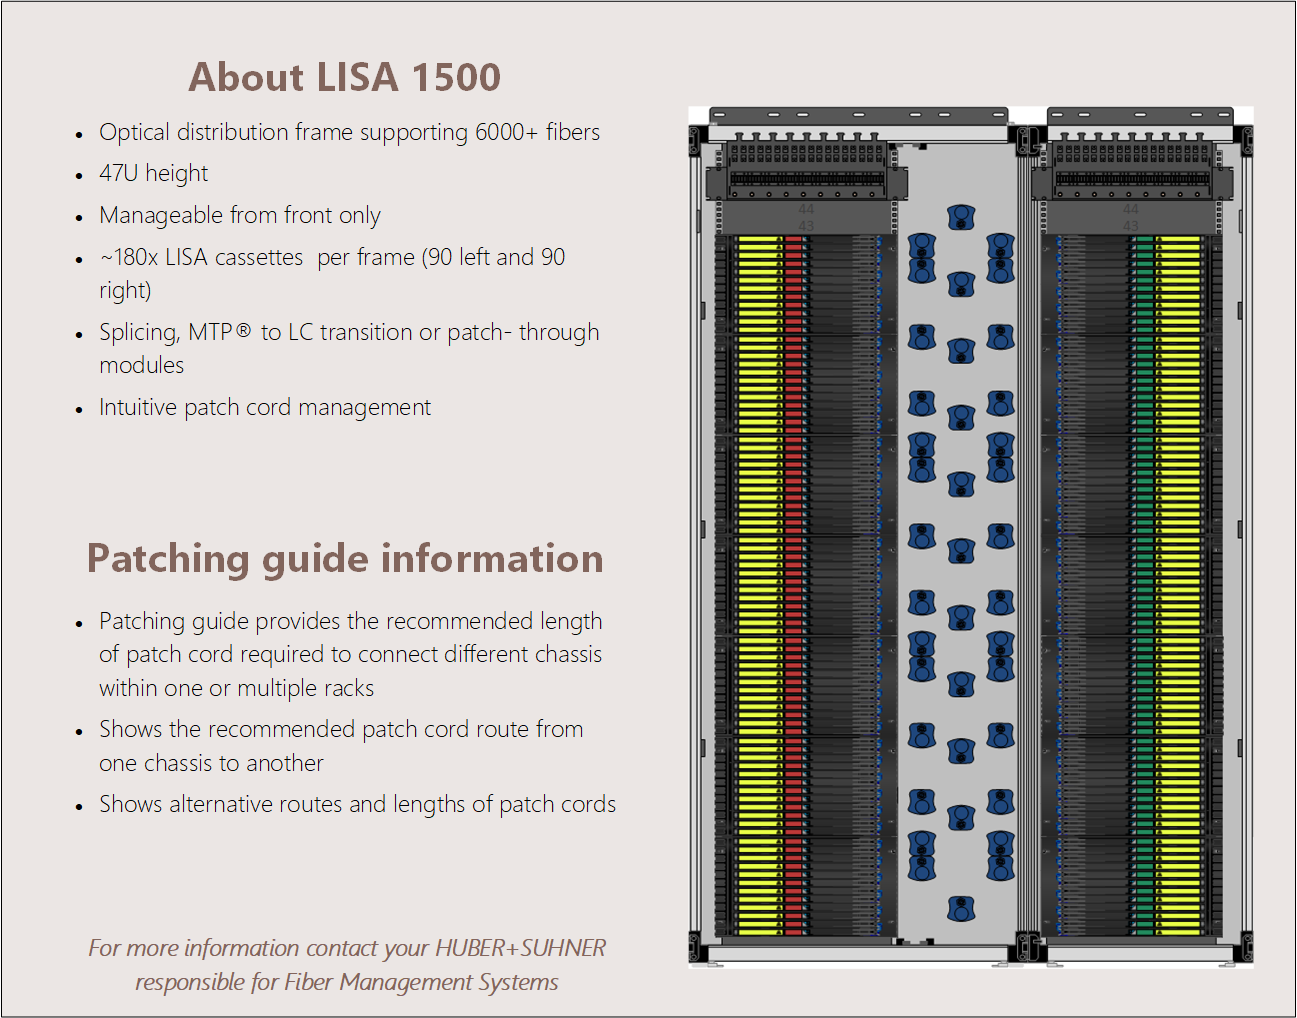
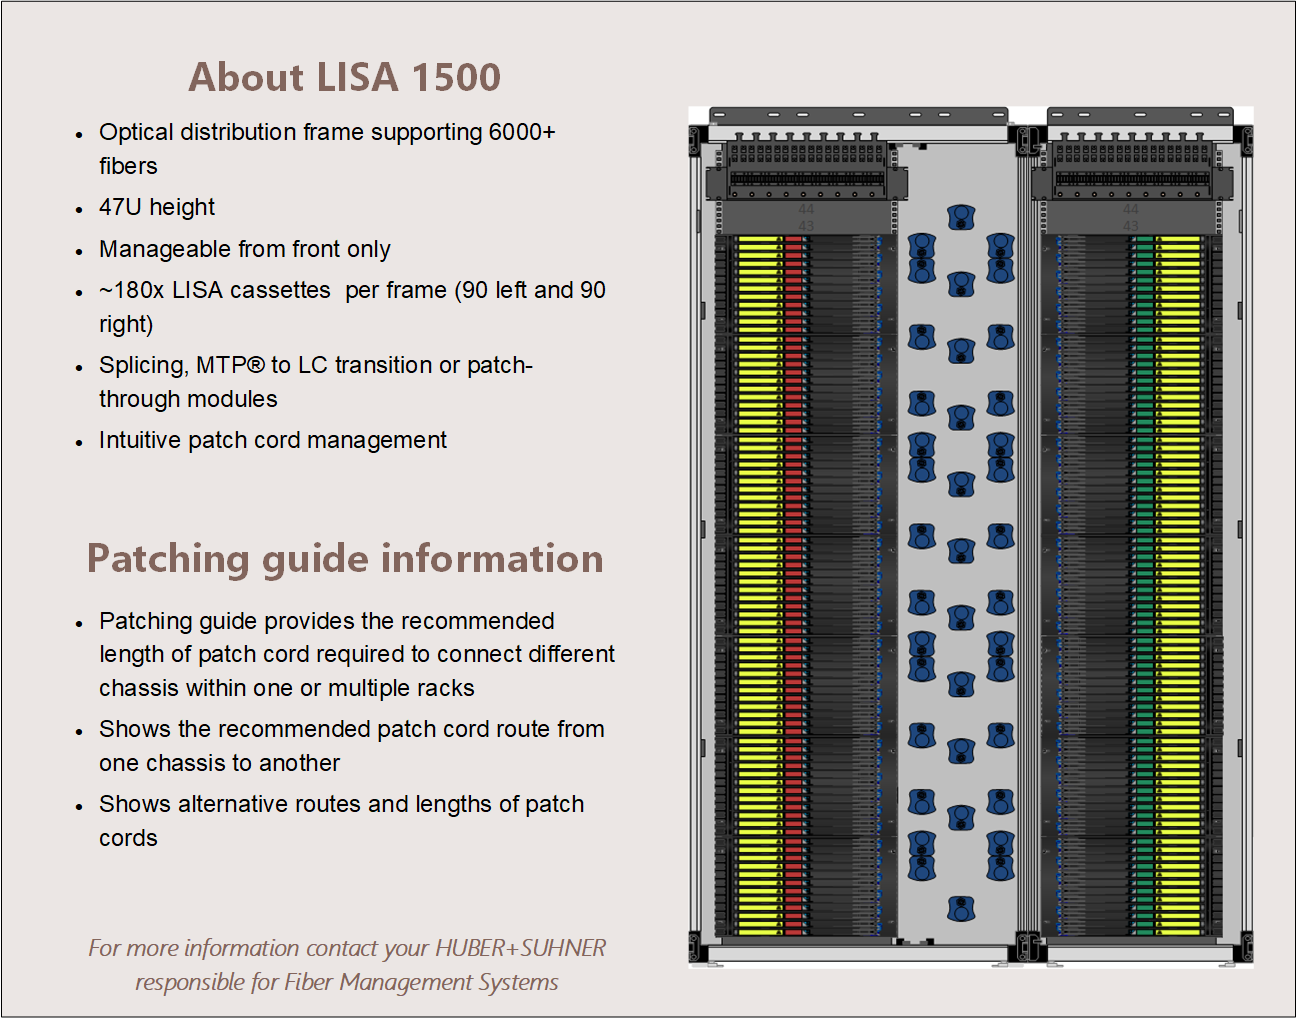
images update (fonts)

Changed region(s): [[0.0617, 0.1218, 0.4626, 0.4568], [0.0617, 0.5786, 0.4626, 0.8527]]

diff --git a/style.css b/style.css
@@ -16,17 +16,7 @@
 			src: url('./fonts/39EC6C_0_0.woff2') format('woff2'),/* Super Modern Browsers */
 				 url('./fonts/39EC6C_0_0.eot?#iefix') format('embedded-opentype'), /* This doesn't work - IE6-IE8 */
 				 url('./fonts/39EC6C_0_0.eot?#iefix') format('embedded-opentype'); /* IE6-IE8 */
-		  }
-		  /*          @font-face {
-		  /*            font-family: 'MyWebFont';
-		  /*            src: url('webfont.eot'); /* IE9 Compat Modes */
-		  /*            src: url('webfont.eot?#iefix') format('embedded-opentype'), /* IE6-IE8 */
-		  /*                 url('webfont.woff2') format('woff2'), /* Super Modern Browsers */
-		  /*                 url('webfont.woff') format('woff'), /* Pretty Modern Browsers */
-		  /*                 url('webfont.ttf')  format('truetype'), /* Safari, Android, iOS */
-		  /*                 url('webfont.svg#svgFontName') format('svg'); /* Legacy iOS */
-		  /*          }*/
-		  
+		  }		  
 		  
 		  body{
 			margin:0px; 
